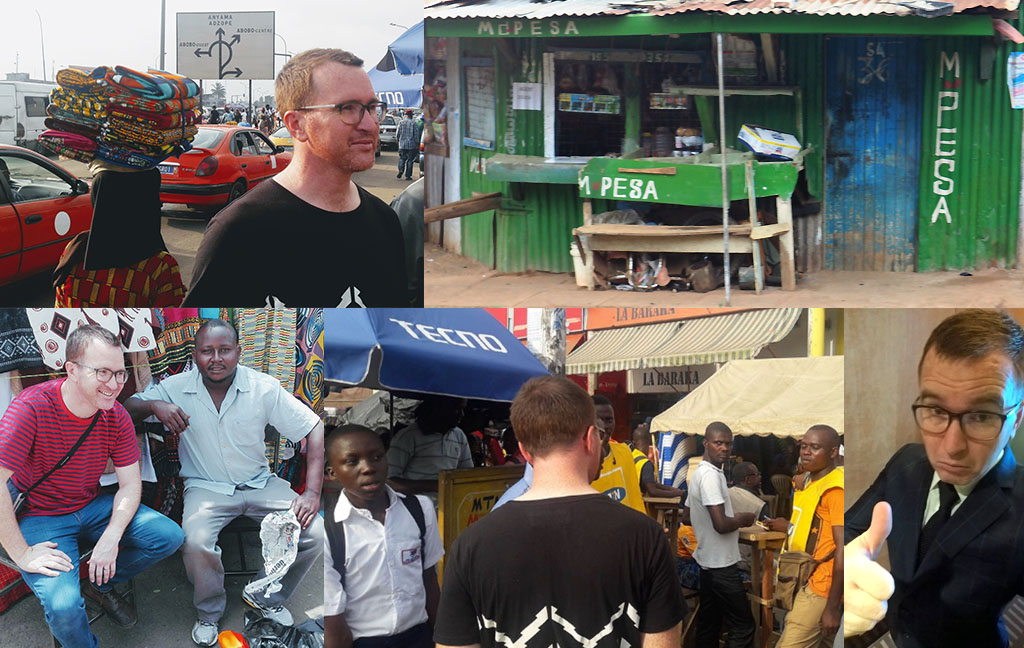
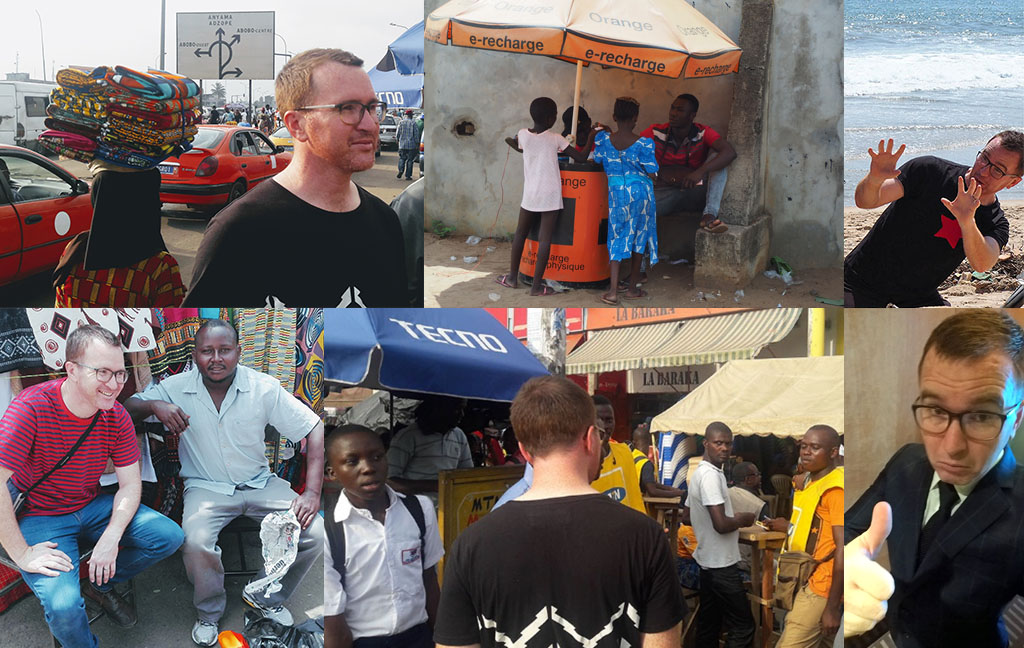
home images and copy tweaks

Changed region(s): [[0.4062, 0.0, 1.0, 0.4938]]

diff --git a/_site/index.html b/_site/index.html
@@ -86,8 +86,8 @@
         <p>I'm reminded of the city pride we had when I browse through old copies of the Photo News. Proud of our
           beaches,
           proud of our rivers, proud of our streetscapes, proud of each other.</p>
-        <p>There are sparks: Kiwa Pools, the surf clubs, skate parks and pump tracks, local sports facilities, farmer's
-          market, and busy use of our walkways.</p>
+          <p><img src="images/gisofyore.jpg" title="On the rivers of Gisborne"></p>
+        <p>There are sparks: Kiwa Pools, the surf clubs, skate parks and pump tracks, waka ama, local sports facilities, and busy use of our walkways.</p>
         <p>Other visible well-trodden areas are sad: our city beaches, our city buildings, our city roads, our
           cleanliness.</p>
         <p><strong>Let's continue to boost active outdoor recreation and movement.</strong></p>
@@ -99,8 +99,10 @@
             what is the point in any of this?</strong></p>
         <p>It goes for everyone; not just council, but each other, and big business. What are we leaving behind? A mess
           for our children to clean up? Or are we leaving better public amenities for those that follow?</p>
+        <p><img src="images/pondering-opportunity.jpg" title="Slash worth staying in?"></p>
+
         <p>We have incredible people choosing to pursue world-leading education, research, and industrial innovations
-          right here; Mātai, Rāngai, Leaderbrand, EIT, Pultron, Tōnui Collab, even the Environment Centre to name just a
+          right here; Mātai, Rāngai, Leaderbrand, EIT, East Coast Exchange, Pultron, Tōnui Collab, even the Environment Centre to name just a
           few.</p>
         <p>There is surely an opportunity to support and encourage our leaders and innovators to be long-term catalysts
           for joined-up, fairly distributed regional wealth.</p>
@@ -117,12 +119,14 @@
         <p>A thing I admired about old Green leader Russel Norman was he recognised so clearly that the most effective
           way
           of getting society to be resourceful, less wasteful, was to pull on economic levers.</p>
+          <p><img src="images/wastebusters.jpg" title="Wasterbusters - reduce reuse recycle"></p>
         <ul>
-          <li>If you want ratepayers to spend less maintaining pipes, encourage them to use water well, or collect their
+          <li>If you want ratepayers to spend less maintaining pipes, let's encourage them to use water well, or collect their
             own, by rewarding them for it.</li>
-          <li>If you want ratepayers to spend less maintaining roads, look for less heavy use of them.</li>
+          <li>If you want ratepayers to spend less maintaining roads, let's look for less heavy use of them.</li>
+          <li>If you want ratepayers to spend less creating landfills, let's make well-run circular alternatives to buying new cool again.</li>
           <li>If you want ratepayers to use their land more productively &mdash; e.g., extra accommodation for workers,
-            renters, nan &mdash; maybe just rate the land.</li>
+            renters, nan &mdash; let's maybe just rate the land.</li>
         </ul>
         <p><strong>There are economic formulas that set the right incentives for sustainable development.</strong></p>
       
@@ -131,7 +135,7 @@
       <p>And if you've made it this far, it might be worth reading <strong><a href="about/">Why me?</a></strong>.</p>
     </div>
     <div class="wait-right">
-      <h4>I'm standing for:</h4>
+      <h4>I'm standing for</h4>
       <ul>
         <li><a href="#new-abundance">A new abundance, built on place, not things</a></li>
         <li><a href="#pride">Pride of place</a></li>

diff --git a/_site/about/index.html b/_site/about/index.html
@@ -105,7 +105,7 @@
 <p><img src="../images/csh.jpg" alt="Compassion, sacrifice"></p>
 <p>If watching my father run J.S. Allan's didn't instil it, maybe it was us just doing things that needed doing for others; from stocking helicopters during Bola, stacking wood, reflecting in church, fixing instead of replacing, to representing &quot;Poverty Bay&quot;.</p>
 <h3 id="fairness" tabindex="-1">Fairness, care, high expectations</h3>
-<p>After dux at college and a bloody hard degree in computing and mathematical sciences, my early working years were alongside teachers. It has shaped my deepest political value: fairness.</p>
+<p>After dux at school and a bloody hard degree in computing and mathematical sciences, my early working years were alongside teachers. It has shaped my deepest political value: fairness.</p>
 <p><strong>Combining a fair go, high expectations, and supporting those in our care to go beyond the possible is what it's all about.</strong></p>
 <p><img src="../images/strikers-gillies.jpg" alt="Strikers winning the Gillies Cup!"></p>
 <h3 id="commercial-acumen" tabindex="-1">Loyalty, strategic thinking, commercial acumen</h3>

diff --git a/_site/css/custom.css b/_site/css/custom.css
@@ -684,6 +684,10 @@ i.fab {
 
 }
 
+.wait-left p img {
+  width: 100%;
+  border-radius: 1rem;
+}
 
 .wait-right {
   display:none;

diff --git a/css/custom.css b/css/custom.css
@@ -684,6 +684,10 @@ i.fab {
 
 }
 
+.wait-left p img {
+  width: 100%;
+  border-radius: 1rem;
+}
 
 .wait-right {
   display:none;
